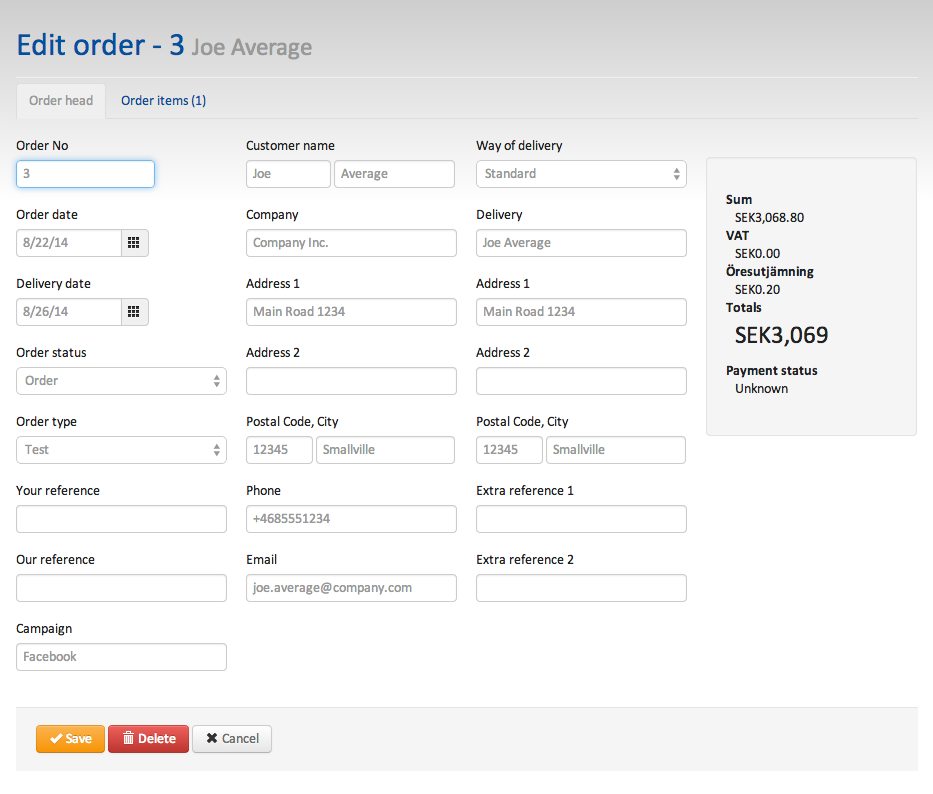
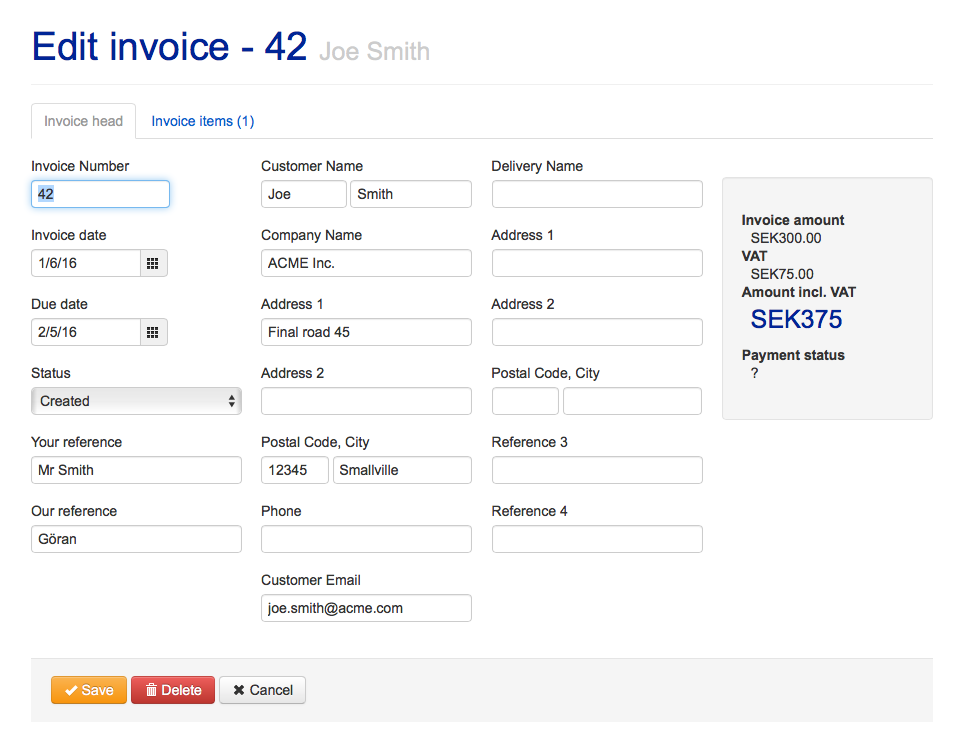
crm-invoice plugins

diff --git a/plugins/crm-invoice-ui/index.html b/plugins/crm-invoice-ui/index.html
@@ -434,9 +434,10 @@ body.book #toc,body.book #preamble,body.book h1.sect0,body.book .sect1>h2{page-b
 </li>
 <li><a href="#crm-invoice-management-user-interface-plugin">2. Invoice Management User Interface Plugin</a>
 <ul class="sectlevel2">
-<li><a href="#crm-search-invoices">2.1. Search invoices</a></li>
-<li><a href="#crm-invoice-details">2.2. Invoice details</a></li>
-<li><a href="#crm-edit-invoice-details">2.3. Edit invoice details</a></li>
+<li><a href="#crm-create-invoices">2.1. Create invoices</a></li>
+<li><a href="#crm-search-invoices">2.2. Search invoices</a></li>
+<li><a href="#crm-invoice-details">2.3. Invoice details</a></li>
+<li><a href="#crm-edit-invoice-details">2.4. Edit invoice details</a></li>
 </ul>
 </li>
 <li><a href="#crm-changes">3. Changes</a></li>
@@ -482,7 +483,19 @@ that focus on one specific domain, for example <strong>contact</strong>, <strong
 It provides a Twitter Bootstrap based user interface for invoice management.</p>
 </div>
 <div class="sect2">
-<h3 id="crm-search-invoices">2.1. Search invoices</h3>
+<h3 id="crm-create-invoices">2.1. Create invoices</h3>
+<div class="paragraph">
+<p>In most application invoices are created programatically based on information from the database or external systems.
+But you can also create an invoice manually with the CrmInvoiceController.create() action.</p>
+</div>
+<div class="imageblock">
+<div class="content">
+<img src="./images/invoice-create.png" alt="Create invoice manually">
+</div>
+</div>
+</div>
+<div class="sect2">
+<h3 id="crm-search-invoices">2.2. Search invoices</h3>
 <div class="paragraph">
 <p>To query for invoices you visit <code>crmIndex/index</code> which will show the query form.</p>
 </div>
@@ -515,7 +528,7 @@ Look at <a href="https://github.com/technipelago/grails-crm-invoice-ui/blob/mast
 </div>
 </div>
 <div class="sect2">
-<h3 id="crm-invoice-details">2.2. Invoice details</h3>
+<h3 id="crm-invoice-details">2.3. Invoice details</h3>
 <div class="paragraph">
 <p>The invoice details page <code>crmInvoice/show</code> show all details for an invoice.
 Here you will find invoice number, customer name, invoice and delivery addresses and more.</p>
@@ -530,7 +543,7 @@ Here you will find invoice number, customer name, invoice and delivery addresses
 </div>
 </div>
 <div class="sect2">
-<h3 id="crm-edit-invoice-details">2.3. Edit invoice details</h3>
+<h3 id="crm-edit-invoice-details">2.4. Edit invoice details</h3>
 <div class="paragraph">
 <p>To edit invoice details you hit the <code>Edit</code> button. This will display the edit page <code>crmInvoice/edit</code>.
 Here you can alter values and then hit <code>Save</code> to store the new values in the database.</p>
@@ -595,7 +608,7 @@ Here you can alter values and then hit <code>Save</code> to store the new values
 <div id="footer">
 <div id="footer-text">
 Version 2.4.0<br>
-Last updated 2015-11-15 12:51:12 CET
+Last updated 2016-01-06 15:44:53 CET
 </div>
 </div>
 </body>
